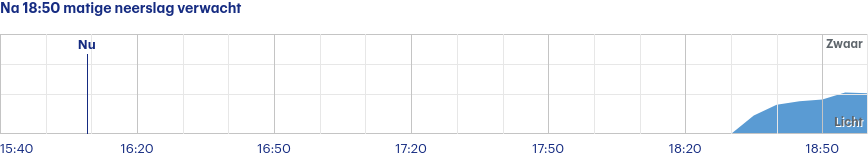
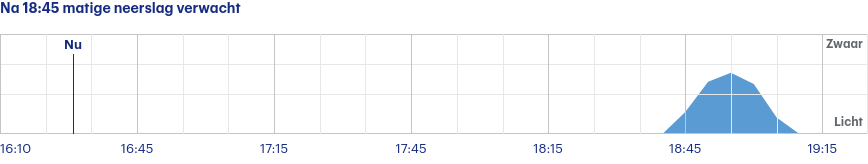
Latest scraping buienradar: Sat Jul 15 14:26:52 UTC 2023

diff --git a/scrapes/buienradar/buienradar-jette-3-uur.md b/scrapes/buienradar/buienradar-jette-3-uur.md
@@ -1,4 +1,4 @@
-Na 18:50 matige neerslag verwacht
+Na 18:45 matige neerslag verwacht
 
 ![](buienradar-jette-3-uur.png)
 
